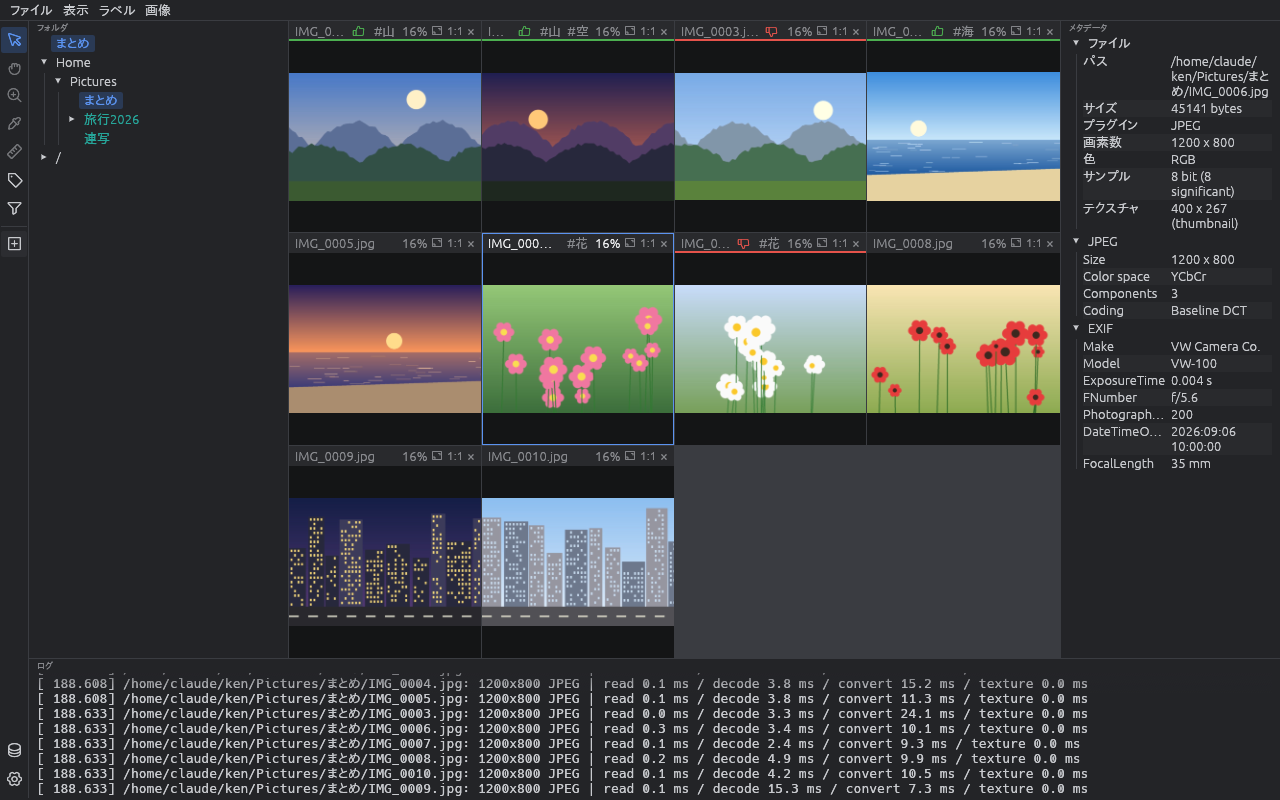
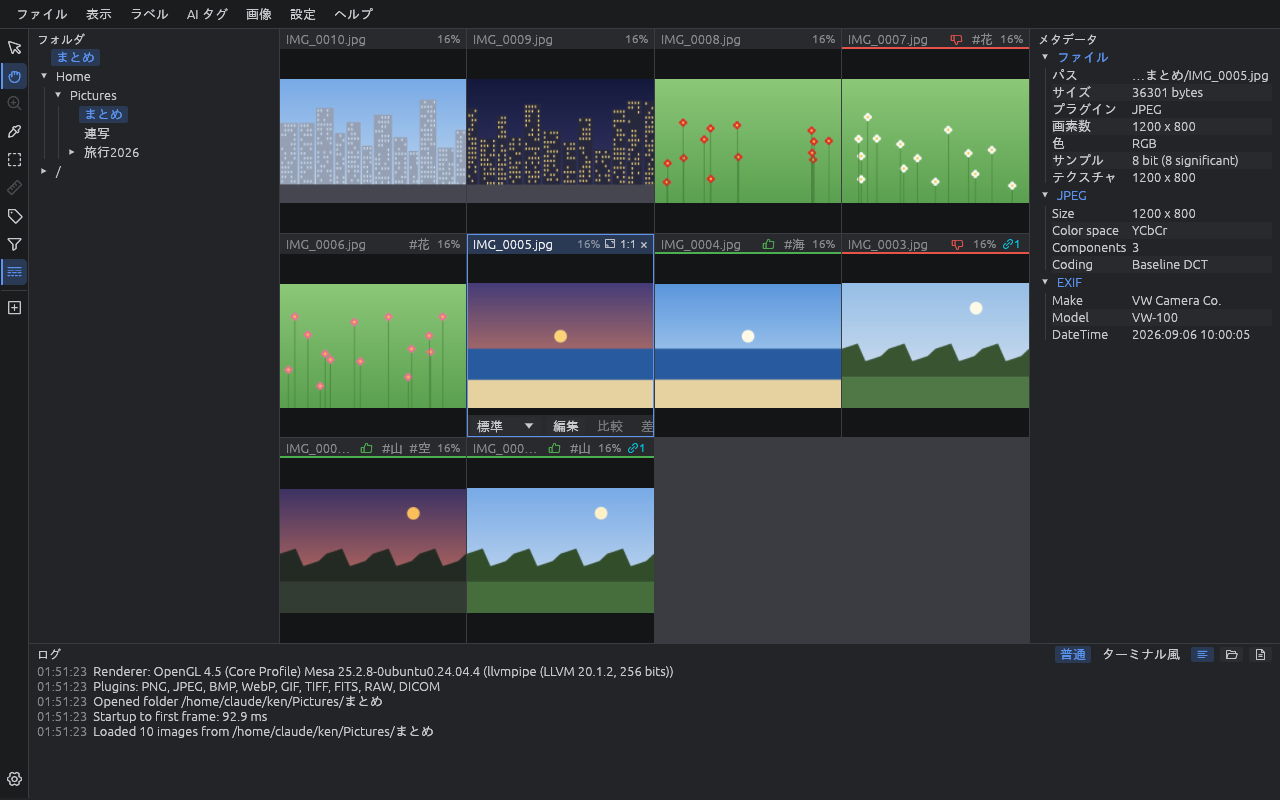
公開の文書を今の vw に合わせる
README・紹介ページ・設計資料に、もう違っていることや書いていないことが残っていた。
Windows 11 のスマート アプリ コントロールで止められたときの手がなく、紹介ページは
「初めは英語」のまま、画面写真は古く、全画面スライドショー・画素値の確認・ROI・ゲージ・
QR・電波の画像・登録の中断は使い方の説明がなかった。配る README に、まだ試しの機能の
名前が出ている所も、出さない書き方に直す。

Claude-Session: https://claude.ai/code/session_01PwokjAGnX2Ka39AHCpwnNd

diff --git a/site/index.html b/site/index.html
@@ -199,6 +199,7 @@ footer a { color: var(--muted); text-decoration: underline; }
         </ol>
         <p class="note">Chrome で「一般的にダウンロードされていないファイルです」と止められたときは、<code>chrome://downloads</code> を開き、vw の行の <b>保存</b> を押します。
           初回起動で「Windows によって PC が保護されました」と出たら、<b>詳細情報</b> → <b>実行</b> で起動できます。どちらも、vw にまだ署名がないために出る表示です。</p>
+        <p class="note">Windows 11 の<b>スマート アプリ コントロール</b>が有効な PC では、<b>実行</b> のボタンが出ずに止められます。Microsoft Store 版（審査中）を使うか、<b>Windows セキュリティ</b> → <b>アプリとブラウザー コントロール</b> → <b>スマート アプリ コントロールの設定</b> で <b>オフ</b> にします。Windows の版によっては、一度切ると入れ直すまで戻せません。</p>
         <p class="note">アンインストールは、展開したフォルダと <code>%APPDATA%\vw</code> を消すだけです。レジストリは使っていません。</p>
       </div>
       <div>
@@ -215,7 +216,7 @@ cd vw
       </div>
     </div>
     <h3>日本語表示にする</h3>
-    <p>vw は初めは英語で表示されます。左下の歯車（または Ctrl+,）で設定画面を開き、<b>Appearance</b> の <b>Language</b> を <b>日本語</b> にします。その場で切り替わります。</p>
+    <p>vw は初めは OS の言語に合わせて表示されます。英語のままなら、左下の歯車（または Ctrl+,）で設定画面を開き、<b>Appearance</b> の <b>Language</b> を <b>日本語</b> にします。その場で切り替わります。</p>
     <h3>次に読むもの</h3>
     <ul class="plain">
       <li><a href="https://github.com/xex-ken-xex/vw#はじめの-5-分">はじめの 5 分</a> — 写真を見る、タグを付ける、カタログを作る、をひととおり</li>

diff --git a/site/en/index.html b/site/en/index.html
@@ -202,6 +202,7 @@ footer a { color: var(--muted); text-decoration: underline; }
         </ol>
         <p class="note">If Chrome blocks the download as "not commonly downloaded", open <code>chrome://downloads</code> and press <b>Keep</b> on the vw row.
           If Windows shows "Windows protected your PC" on first start, choose <b>More info</b> → <b>Run anyway</b>. Both appear because vw is not code-signed yet.</p>
+        <p class="note">On Windows 11 PCs with <b>Smart App Control</b> on, vw is blocked with no <b>Run anyway</b> button. Use the Microsoft Store version (in review), or turn it off in <b>Windows Security</b> → <b>App &amp; browser control</b> → <b>Smart App Control settings</b>. On some Windows versions it cannot be turned back on without reinstalling Windows.</p>
         <p class="note">To uninstall, delete the folder and <code>%APPDATA%\vw</code>. The registry is not used.</p>
       </div>
       <div>

diff --git a/CLAUDE.md b/CLAUDE.md
@@ -9,12 +9,12 @@ Linux / Windows 向けの高速画像ビューワ。設計は [docs/architecture
 
 | 場所 | 中身 |
 | --- | --- |
-| `crates/` | 画像の読み込み、DICOM、見た目(`vw-ui`)、フォルダツリーの基底(`vw-tree`)など。アプリから共有する |
+| `crates/` | 画像の読み込み、DICOM（実験的）、見た目(`vw-ui`)、フォルダツリーの基底(`vw-tree`)など。アプリから共有する |
 | `apps/vw/` | ビューア本体 |
 | `apps/dicoamplio/` | DICOM の評価データを水増しするツール(決まりは `apps/dicoamplio/CLAUDE.md`) |
 
 - 新しいツールは `apps/` にディレクトリを 1 つ足す。見た目は `vw-ui`、フォルダやファイルを選ぶ窓は `vw-tree` の `picker` を使い(OS のダイアログは使わない)、ワークスペースの `version`・`license` を継ぐ。
-- ビューア固有のツリーの振る舞い(ZIP、DICOM の検査、AI タグ、先読み)は `apps/vw/src/tree.rs` が `vw-tree` の `Hooks` で足す。基底には、どのアプリでも同じ部分だけを置く。
+- ビューア固有のツリーの振る舞い(ZIP、DICOM の検査（実験的）、AI タグ、先読み)は `apps/vw/src/tree.rs` が `vw-tree` の `Hooks` で足す。基底には、どのアプリでも同じ部分だけを置く。
 - 版はワークスペースで 1 つ。Release は `apps/` の全アプリを同じ版で一緒に出す(`.github/workflows/ci.yml`)。
 - 新しい依存を足したら `packaging/about.toml` のライセンスの一覧にあるか確かめる。アプリごとに `cargo about` で第三者ライセンスの一覧を作る。
 

diff --git a/docs/architecture.md b/docs/architecture.md
@@ -108,7 +108,7 @@ DisplayImage (RGBA8)
 ```
 
 - 4 フィールド（フォルダツリー / メタデータ / 画像 / ログ）は View メニューで表示・非表示
-- フォルダツリーは 2 層。基底（`crates/vw-tree`: ルート、遅延読み込み、隠しフォルダ、開閉、復元、読み直し）は apps/ のアプリで共有し、ビューア固有の項目（ZIP、DICOM の検査・シリーズ、右クリックメニュー、先読み）は `apps/vw/src/tree.rs` が基底の `Hooks` で足す。フォルダやファイルを選ぶ窓（`vw-tree` の `picker`）も同じ基底で作り、OS のダイアログは使わない
+- フォルダツリーは 2 層。基底（`crates/vw-tree`: ルート、遅延読み込み、隠しフォルダ、開閉、復元、読み直し）は apps/ のアプリで共有し、ビューア固有の項目（ZIP、形式ごとの仮想フォルダ、右クリックメニュー、先読み）は `apps/vw/src/tree.rs` が基底の `Hooks` で足す。フォルダやファイルを選ぶ窓（`vw-tree` の `picker`）も同じ基底で作り、OS のダイアログは使わない
 - 画像フィールドは n 個のスロットをレイアウト（`viewer.layout`、`layout.rs`）に従って並べる
   - 自動（既定）は正方形に近いマス目で全スロットを 1 ページに、`列x行` を決めると入りきらない分は次のページ
   - ページはアクティブなスロットから決める（ページ番号を別に持たない）
